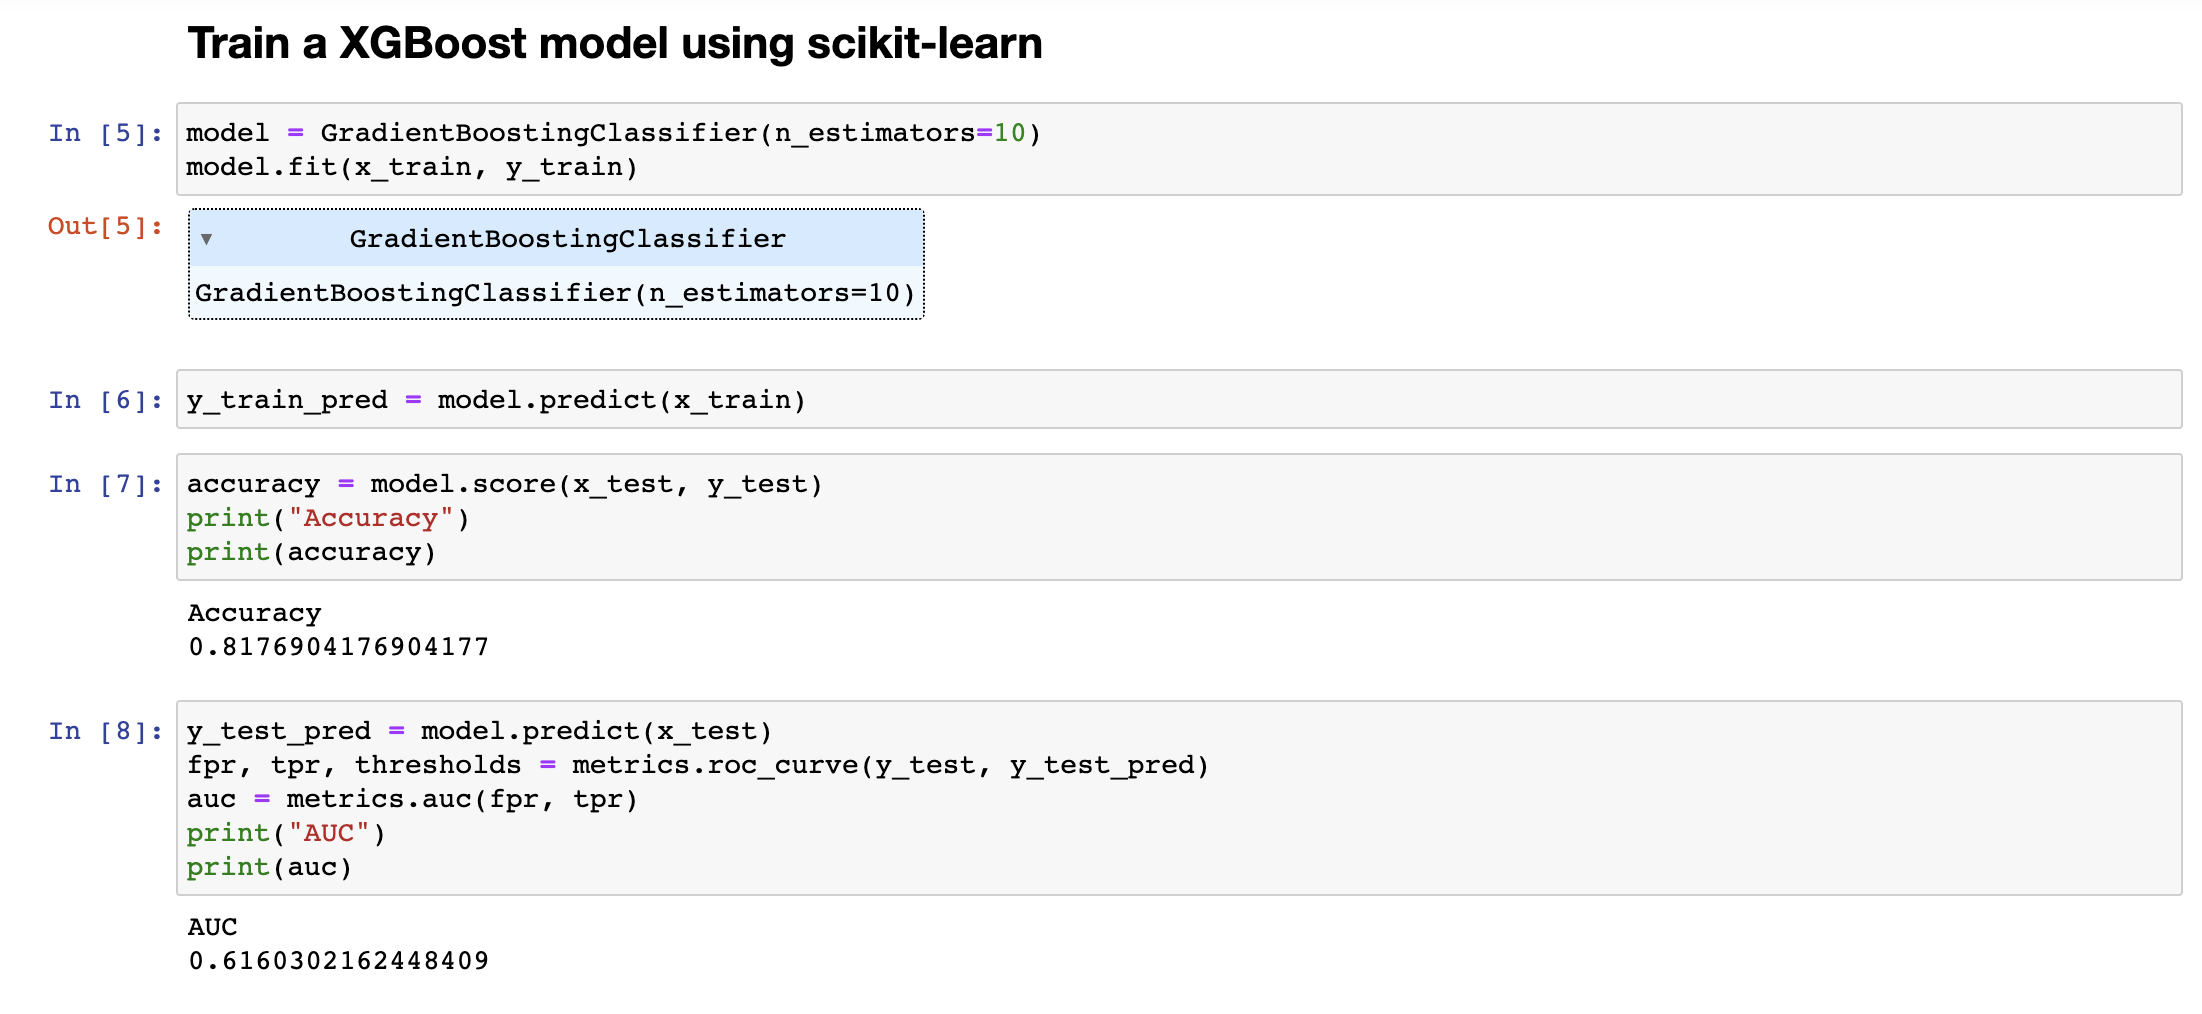
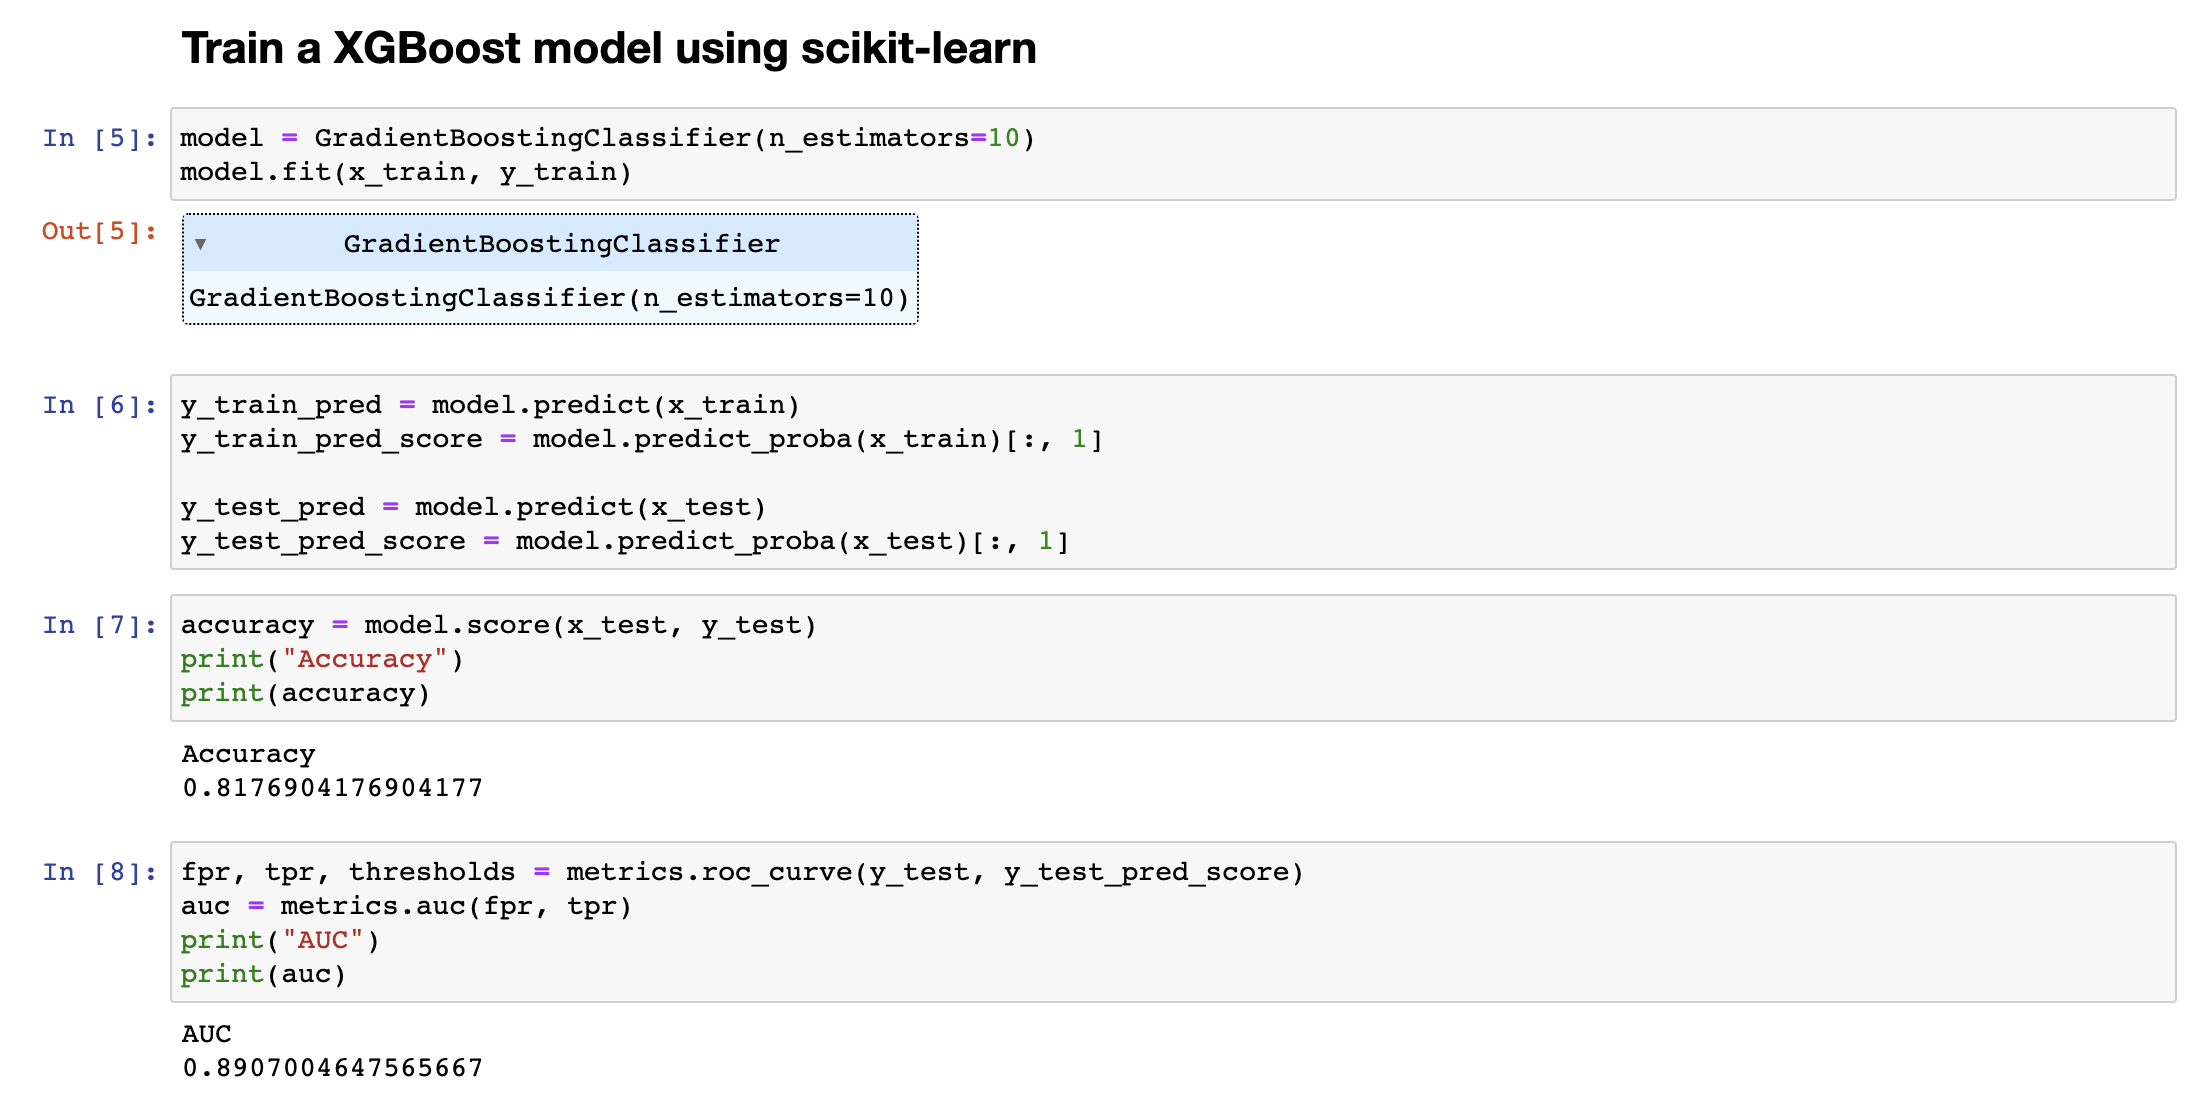
Fixed AUC computation of TE models

Changed region(s): [[0.0309, 0.3363, 0.9882, 0.9783], [0.0309, 0.0917, 0.9882, 0.3057], [0.0618, 0.0, 0.4941, 0.0611]]

diff --git a/trainer.py b/trainer.py
@@ -36,7 +36,7 @@ class Trainer:
     def evaluate_model(self):
         accuracy = self.model.score(self.x_test, self.y_test)
 
-        y_pred = self.model.predict(self.x_test)
+        y_pred = self.model.predict_proba(self.x_test)[:, 1]
         fpr, tpr, thresholds = metrics.roc_curve(self.y_test, y_pred)
         auc = metrics.auc(fpr, tpr)
 
